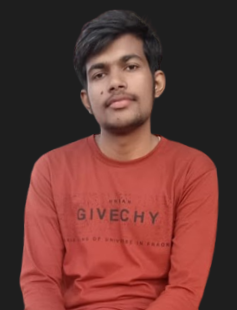
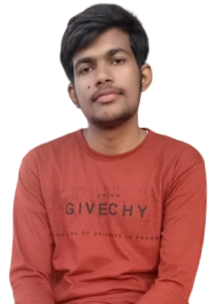
Saqib

diff --git a/index.html b/index.html
@@ -28,10 +28,10 @@
         <div class="info">
             <span class="name">HI, I’M Saqib</span>
             <h2>I’M A WEB DESIGNER</h2>
-            <span class="detail">My name is Muhammad Saqib Nawaz. I have done my degree from Comsats University Islamabad of Software Engenering. I can build responsive and beautiful websites for you.</span>
+            <span class="detail">My name is Muhammad Saqib Nawaz. I have done my degree from Comsats University
+                Islamabad of Software Engenering. I can build responsive and beautiful websites for you.</span>
             <button><span>VIEW MY PRJECTS</span></button>
         </div>
-        <div class="ellipse"></div>
         <img src="img/IMG-20220530-WA0044-removebg-preview.png" alt="">
 
     </main>

diff --git a/css/style.css b/css/style.css
@@ -84,19 +84,9 @@ main button span {
     color: #F8F7F9;
 }
 
-.ellipse {
-    position: absolute;
-    width: 612px;
-    height: 382px;
-    left: 650px;
-    top: 203px;
-    background: rgba(248, 247, 249, 0.2);
-    filter: blur(128px);
-    border-radius: 50%;
-}
-
-main img {
+.main img {
     width: 500px;
+  background-image: radial-gradient(circle, rgba(209, 202, 202, 0.5) 40%, #1E1E1E 60%);
 }
 
 footer {
@@ -107,7 +97,7 @@ footer {
     align-content: center;
     justify-content: space-around;
     align-items: center;
-    background: rgb(21 20 20);
+    background: linear-gradient(to bottom, rgb(21 20 20), #1E1E1E);
 }
 
 footer a {

diff --git a/css/responsive.css b/css/responsive.css
@@ -1,3 +1,4 @@
+
 @media screen and (max-width:800px) {
     nav {
         flex-direction: column;
@@ -15,5 +16,6 @@
 
     main img {
         margin-top: 40px;
+        width: 300px;
     }
 }
